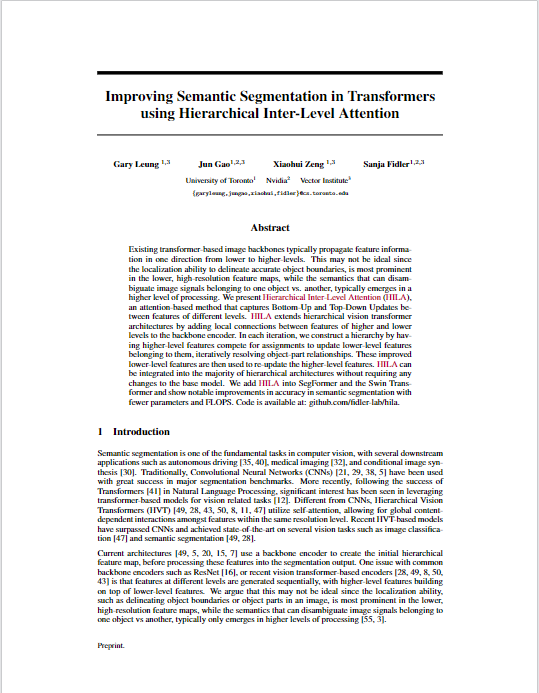
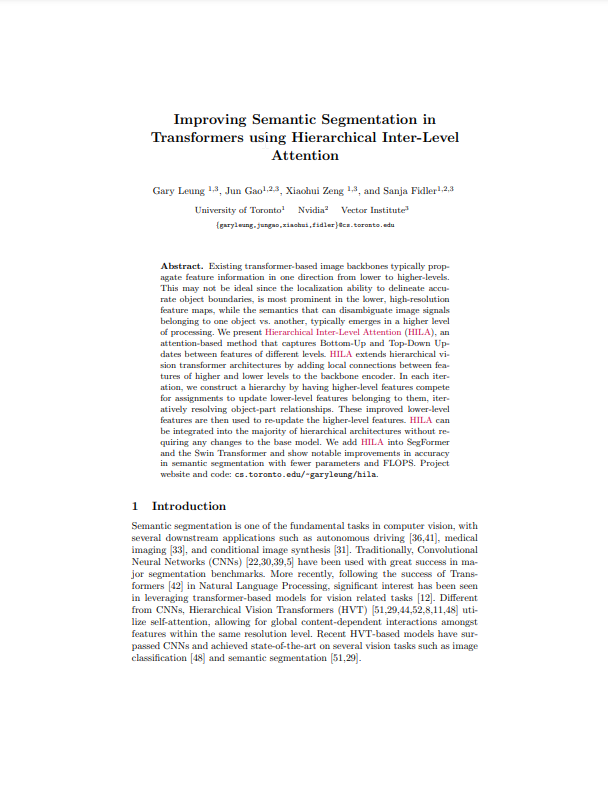
Update website graphics

Changed region(s): [[0.1781, 0.0909, 0.8312, 0.9394], [0.9796, 0.0, 1.0, 1.0], [0.0, 0.0, 0.0297, 1.0]]

diff --git a/docs/index.html b/docs/index.html
@@ -153,32 +153,54 @@
         
         <td align=center width=120px>
         <center>
-        <span style="font-size:20px"><a href="http://www.cs.toronto.edu/~garyleung/">Gary Leung</a></span>
+        <span style="font-size:20px"><a href="http://www.cs.toronto.edu/~garyleung/">Gary Leung<sup>13</sup></a></span>
         </center>
         </td>
 
         <td align=center width=120px>
         <center>
-        <span style="font-size:20px"><a href="http://www.cs.toronto.edu/~jungao/">Jun Gao</a></span>
+        <span style="font-size:20px"><a href="http://www.cs.toronto.edu/~jungao/">Jun Gao<sup>123</sup></a></span>
         </center>
         </td>
 
         <td align=center width=120px>
         <center>
-        <span style="font-size:20px"><a href="http://www.cs.toronto.edu/~xiaohui/">Xiaohui Zeng</a></span>
+        <span style="font-size:20px"><a href="http://www.cs.toronto.edu/~xiaohui/">Xiaohui Zeng<sup>13</sup></a></span>
         </center>
         </td>
 
         <td align=center width=120px>
         <center>
-        <span style="font-size:20px"><a href="http://www.cs.utoronto.ca/~fidler/">Sanja Fidler</a></span>
+        <span style="font-size:20px"><a href="http://www.cs.utoronto.ca/~fidler/">Sanja Fidler<sup>123</sup></a></span>
         </center>
         </td>
 
        </tr>
       </table>
-    
 	<br>
+
+        <table align=center width=700px>
+       <tr>
+        <td align=center width=120px>
+        <center>
+        <span style="font-size:20px"><sup>1</sup>University of Toronto</span>
+        </center>
+        </td>
+
+        <td align=center width=120px>
+        <center>
+        <span style="font-size:20px"><sup>2</sup>Nvidia</span>
+        </center>
+        </td>
+
+        <td align=center width=120px>
+        <center>
+        <span style="font-size:20px"><sup>3</sup>Vector Institute</span>
+        </center>
+        </td>
+
+       </tr>
+      </table>
 
     <br>
   <table align=center width=700px>
